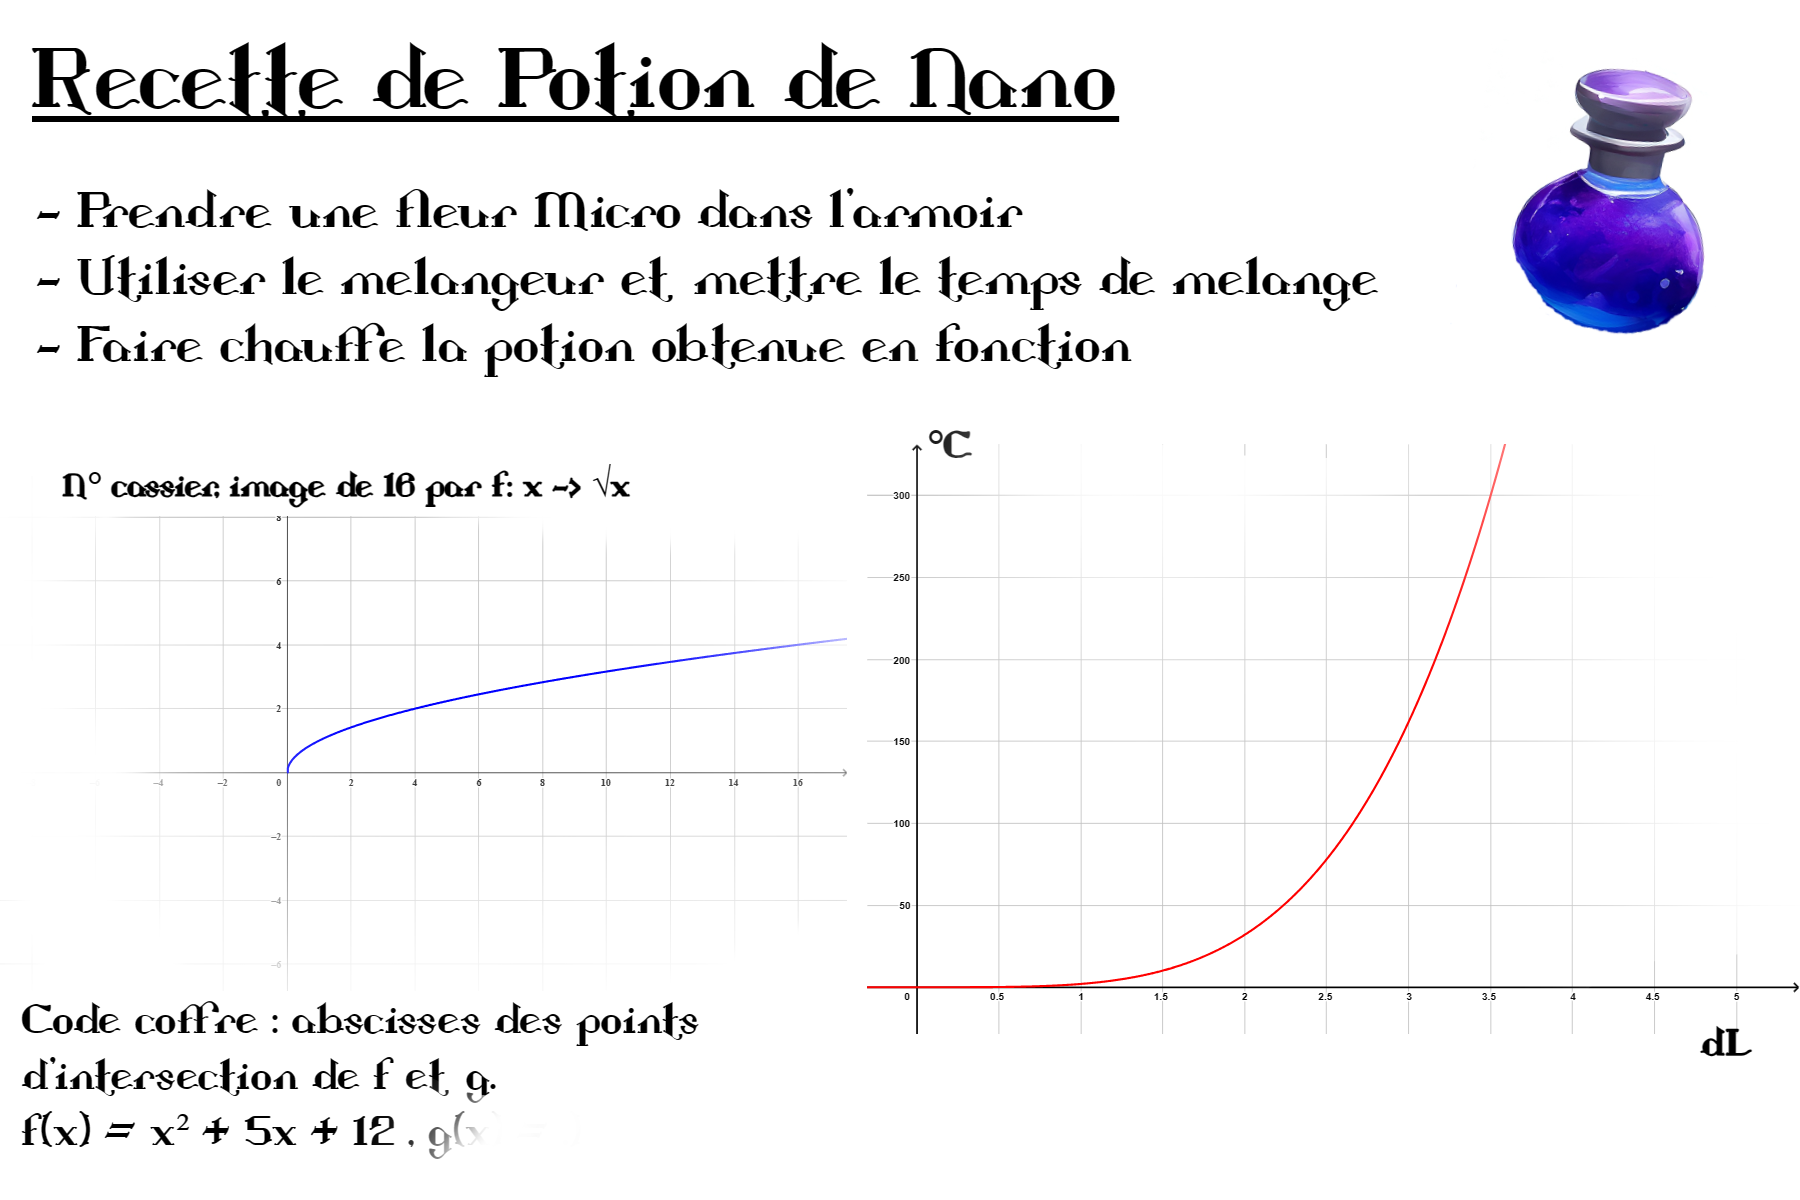
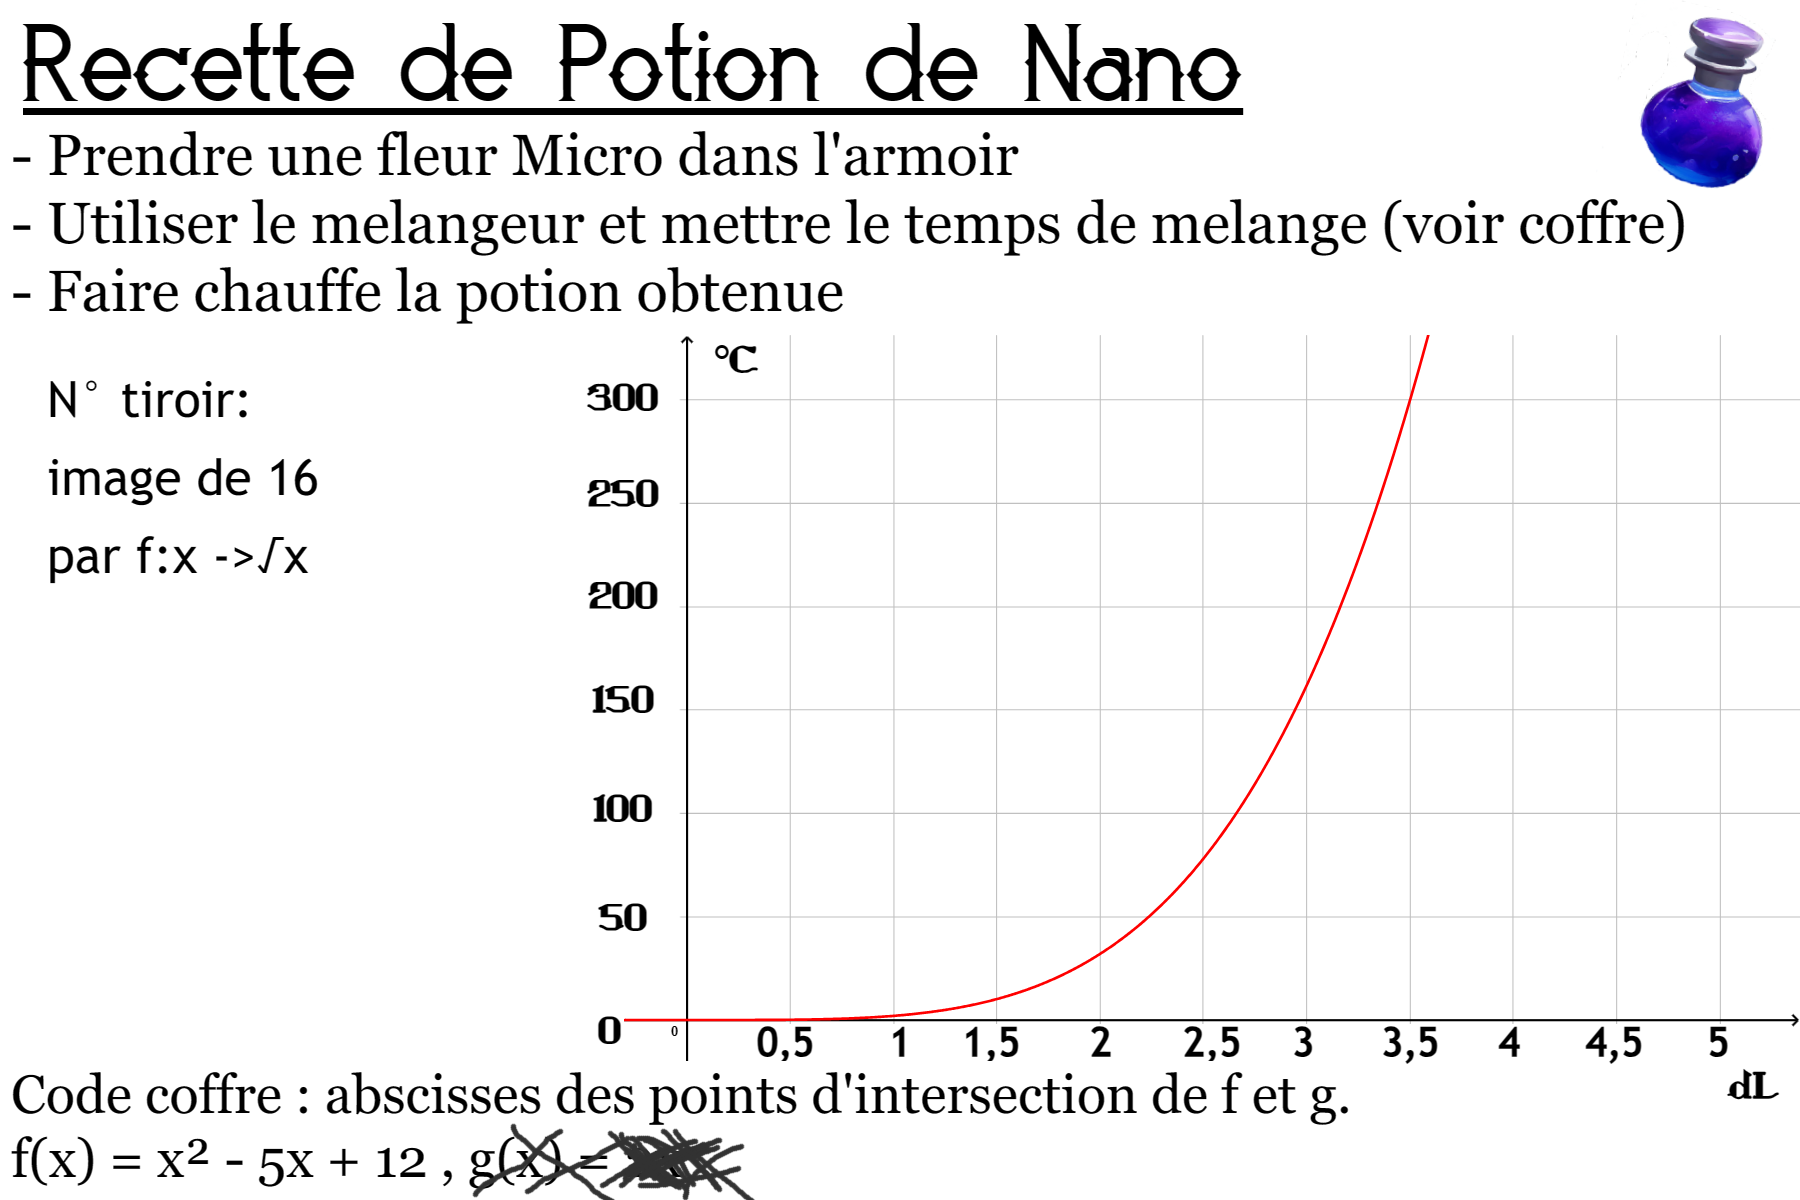
feat(game): new enigme display

diff --git a/enigmathique/frontend/src/components/game/enigmas/EnigmaSliderDisplay.jsx b/enigmathique/frontend/src/components/game/enigmas/EnigmaSliderDisplay.jsx
@@ -1,18 +1,31 @@
 import React, { useState } from 'react';
+import Slider from 'rc-slider';
+import 'rc-slider/assets/index.css';
 import PropTypes from 'prop-types';
 import { BsQuestionDiamondFill } from 'react-icons/bs';
 import { FaCheck } from 'react-icons/fa';
 
-const EnigmaCoffreDisplay = ({ handleSubmitAnswer, handleAskHint, title, description, hint, image }) => {
+const EnigmaWithSlidersDisplay = ({ handleSubmitAnswer, handleAskHint, title, description, hint, image }) => {
 	const [userAnswer, setUserAnswer] = useState('');
-
 	const handleInputChange = (event) => {
 		setUserAnswer(event.target.value);
 	};
 
-	const handleNumericButtonClick = (number) => {
-		// Concaténer le chiffre à la réponse actuelle
-		setUserAnswer(userAnswer + number);
+	const [sliderValues, setSliderValues] = useState([50, 50, 50]);
+
+	const handleSliderChange = (index, value) => {
+		const newSliderValues = [...sliderValues];
+		newSliderValues[index] = value;
+		setSliderValues(newSliderValues);
+		setUserAnswer(sliderValues.reduce((acc, value) => acc + value, 0));
+
+	};
+
+	const handleSumit = () => {
+		// Calcul de la somme des valeurs des sliders
+		const sum = sliderValues.reduce((acc, value) => acc + value, 0);
+		// Appel de la fonction pour soumettre la réponse
+		handleSubmitAnswer(sum);
 	};
 
 	return (
@@ -31,21 +44,19 @@ const EnigmaCoffreDisplay = ({ handleSubmitAnswer, handleAskHint, title, descrip
 			/>
 
 			<div>
-				{/* Pavé numérique */}
-				<div style={{ display: 'grid', gridTemplateColumns: 'repeat(3, 1fr)', gap: '1px' }}>
-					{[1, 2, 3, 4, 5, 6, 7, 8, 9].map((number) => (
-						<button key={number} onClick={() => handleNumericButtonClick(number)} className="m-1.5" style={{ background: '#666699', padding: '2px', borderRadius: '8px', width: '5vw' }}>
-							{number}
-						</button>
-					))}
-					{/* Bouton zéro */}
-					<button onClick={() => handleNumericButtonClick(0)} className="m-1.5" style={{ background: '#666699', padding: '8px', borderRadius: '8px', width: '4vw' }}>
-						0
-					</button>
-					{/* Bouton pour effacer */}
-					<button onClick={() => setUserAnswer('')} className="m-1.5" style={{ background: '#666699', padding: '8px', borderRadius: '8px', width: '5vw' }}>
-						Suppr
-					</button>
+				<div>
+					<p>Slider 1: {sliderValues[0]}</p>
+					<Slider value={sliderValues[0]} onChange={(value) => handleSliderChange(0, value)} />
+				</div>
+
+				<div>
+					<p>Slider 2: {sliderValues[1]}</p>
+					<Slider value={sliderValues[1]} onChange={(value) => handleSliderChange(1, value)} />
+				</div>
+
+				<div>
+					<p>Slider 3: {sliderValues[2]}</p>
+					<Slider value={sliderValues[2]} onChange={(value) => handleSliderChange(2, value)} />
 				</div>
 			</div>
 
@@ -80,13 +91,14 @@ const EnigmaCoffreDisplay = ({ handleSubmitAnswer, handleAskHint, title, descrip
 	);
 };
 
-export default EnigmaCoffreDisplay;
+export default EnigmaWithSlidersDisplay;
 
-EnigmaCoffreDisplay.propTypes = {
+EnigmaWithSlidersDisplay.propTypes = {
 	handleSubmitAnswer: PropTypes.func.isRequired,
 	handleAskHint: PropTypes.func.isRequired,
-	hint: PropTypes.string,
 	title: PropTypes.string.isRequired,
 	description: PropTypes.string.isRequired,
 	image: PropTypes.string,
+	answer: PropTypes.number,
+	hint: PropTypes.string,
 };

diff --git a/enigmathique/frontend/src/components/game/rooms/SwitchRoom.jsx b/enigmathique/frontend/src/components/game/rooms/SwitchRoom.jsx
@@ -13,6 +13,7 @@ import { SocketContext } from '../../../contexts/SocketContext';
 import { ClientToServer } from '../../../data/socketMessages';
 import BasicDisplayTemplate from '../enigmas/BasicEnigmaDisplay';
 import InformationPopup from '../informations/InformationPopup';
+import  EnigmaSliderDisplay from '../enigmas/EnigmaSliderDisplay';
 
 export default function Model(props) {
 	const socket = useContext(SocketContext);
@@ -42,7 +43,7 @@ export default function Model(props) {
 				receiveShadow
 				geometry={nodes.Suzanne.geometry}
 				material={materials.Monkey}
-				position={[0, 0.55, 0]}
+				position={[-2, 0.55, -2]}
 				rotation={[-0.72, -0.516, -0.408]}
 				onPointerOver={handlePointerOver}
 				onPointerOut={handlePointerOut}
@@ -54,6 +55,52 @@ export default function Model(props) {
 						enigmaId={0}
 						enigmaDisplayTemplate={(data, hint, handleSubmitAnswer, handleAskHint) => (
 							<BasicDisplayTemplate
+								title="Salut Gnibo!"
+								description="Je suis un singe! La réponse est 1."
+								image={data.image}
+								hint={hint}
+								handleSubmitAnswer={handleSubmitAnswer}
+								handleAskHint={handleAskHint}
+							/>
+						)}
+						closeEnigma={forceExit}
+					/>
+				)}
+			</mesh>
+		);
+	};
+
+	const SuzanneTestEnigma = () => {
+		const {
+			mesh,
+			hovered,
+			clicked,
+			handlePointerOver,
+			handlePointerOut,
+			handleClick,
+			forceExit,
+		} = useInteractiveObject();
+		// Mettre les paramètres de l'objet qu'on veut modifier dans le hook
+		return (
+			<mesh
+				ref={mesh}
+				name="Suzanne"
+				castShadow
+				receiveShadow
+				geometry={nodes.Suzanne.geometry}
+				material={materials.Monkey}
+				position={[2, 0.55, 2]}
+				rotation={[-0.72, -0.516, -0.408]}
+				onPointerOver={handlePointerOver}
+				onPointerOut={handlePointerOut}
+				onClick={handleClick}
+			>
+				{hovered && <meshBasicMaterial color={0xf0f0ff} />}
+				{clicked && (
+					<Enigma
+						enigmaId={0}
+						enigmaDisplayTemplate={(data, hint, handleSubmitAnswer, handleAskHint) => (
+							<EnigmaSliderDisplay
 								title="Salut Gnibo!"
 								description="Je suis un singe! La réponse est 1."
 								image={data.image}
@@ -112,6 +159,7 @@ export default function Model(props) {
 				/>*/}
 				<SuzanneEvent />
 				<SuzanneDrag />
+				<SuzanneTestEnigma />
 			</group>
 		</group>
 	);

diff --git a/enigmathique/frontend/src/pages/Game.jsx b/enigmathique/frontend/src/pages/Game.jsx
@@ -23,8 +23,6 @@ const Game = () => {
 	const sessionId = searchParams.get('sessionId');
 	const teamId = searchParams.get('teamId');
 
-	const [timeRemaining, setTimeRemaining] = useState(600); // 10 minutes en secondes
-
 	// Si l'id de session n'est pas défini, on quitte la page
 	if (!sessionId || !teamId) {
 		window.location.href = '/';
@@ -65,7 +63,7 @@ const Game = () => {
 		<SocketContext.Provider value={socket}>
 			<section className="absolute w-full h-20 border-y-0 top-0 topbar-container z-50">
 				<div className="w-11/12">
-					<img src={logoNameNobg} alt="logo" style={{ height: '4em' }} />
+					<img src={logoNameNobg} alt="logo" style={{ height: '4em' , marginLeft: '2em'}} />
 				</div>
 				<div className="flex flex-row items-center gap-2">
 					<img src={E} alt="logo" style={{ height: '4em' }} />

diff --git a/enigmathique/frontend/src/components/game/enigmas/Enigma.jsx b/enigmathique/frontend/src/components/game/enigmas/Enigma.jsx
@@ -57,8 +57,7 @@ const Enigma = ({ enigmaId, enigmaDisplayTemplate, closeEnigma }) => {
 
 	return (
 		<Html>
-			<div className="absolute translate-y-[-50%] top-1/2 left-1/2 p-4 w-72 bg-white rounded-md flex flex-col">
-
+			<div className={`absolute translate-y-[-50%] top-1/2 left-1/2 p-4 w-72 bg-white rounded-md flex flex-col ${!enigmaState.isSolved ? 'border-4 border-red-600' : 'border-4 border-green-600'}`}>
 				<button onClick={closeEnigma}
 					style={{
 						display: 'flex',

diff --git a/enigmathique/frontend/src/components/game/enigmas/EnigmaChaufDisplay.jsx b/enigmathique/frontend/src/components/game/enigmas/EnigmaChaufDisplay.jsx
@@ -29,6 +29,7 @@ const EnigmaChaufDisplay = ({ handleSubmitAnswer, handleAskHint, title, descript
 				onChange={handleInputChange}
 				className="m-1.5"
 				style={{ border: '2px solid #b3b3b3' }}
+				readOnly
 			/>
 
 			{/* Bouton tournant */}
